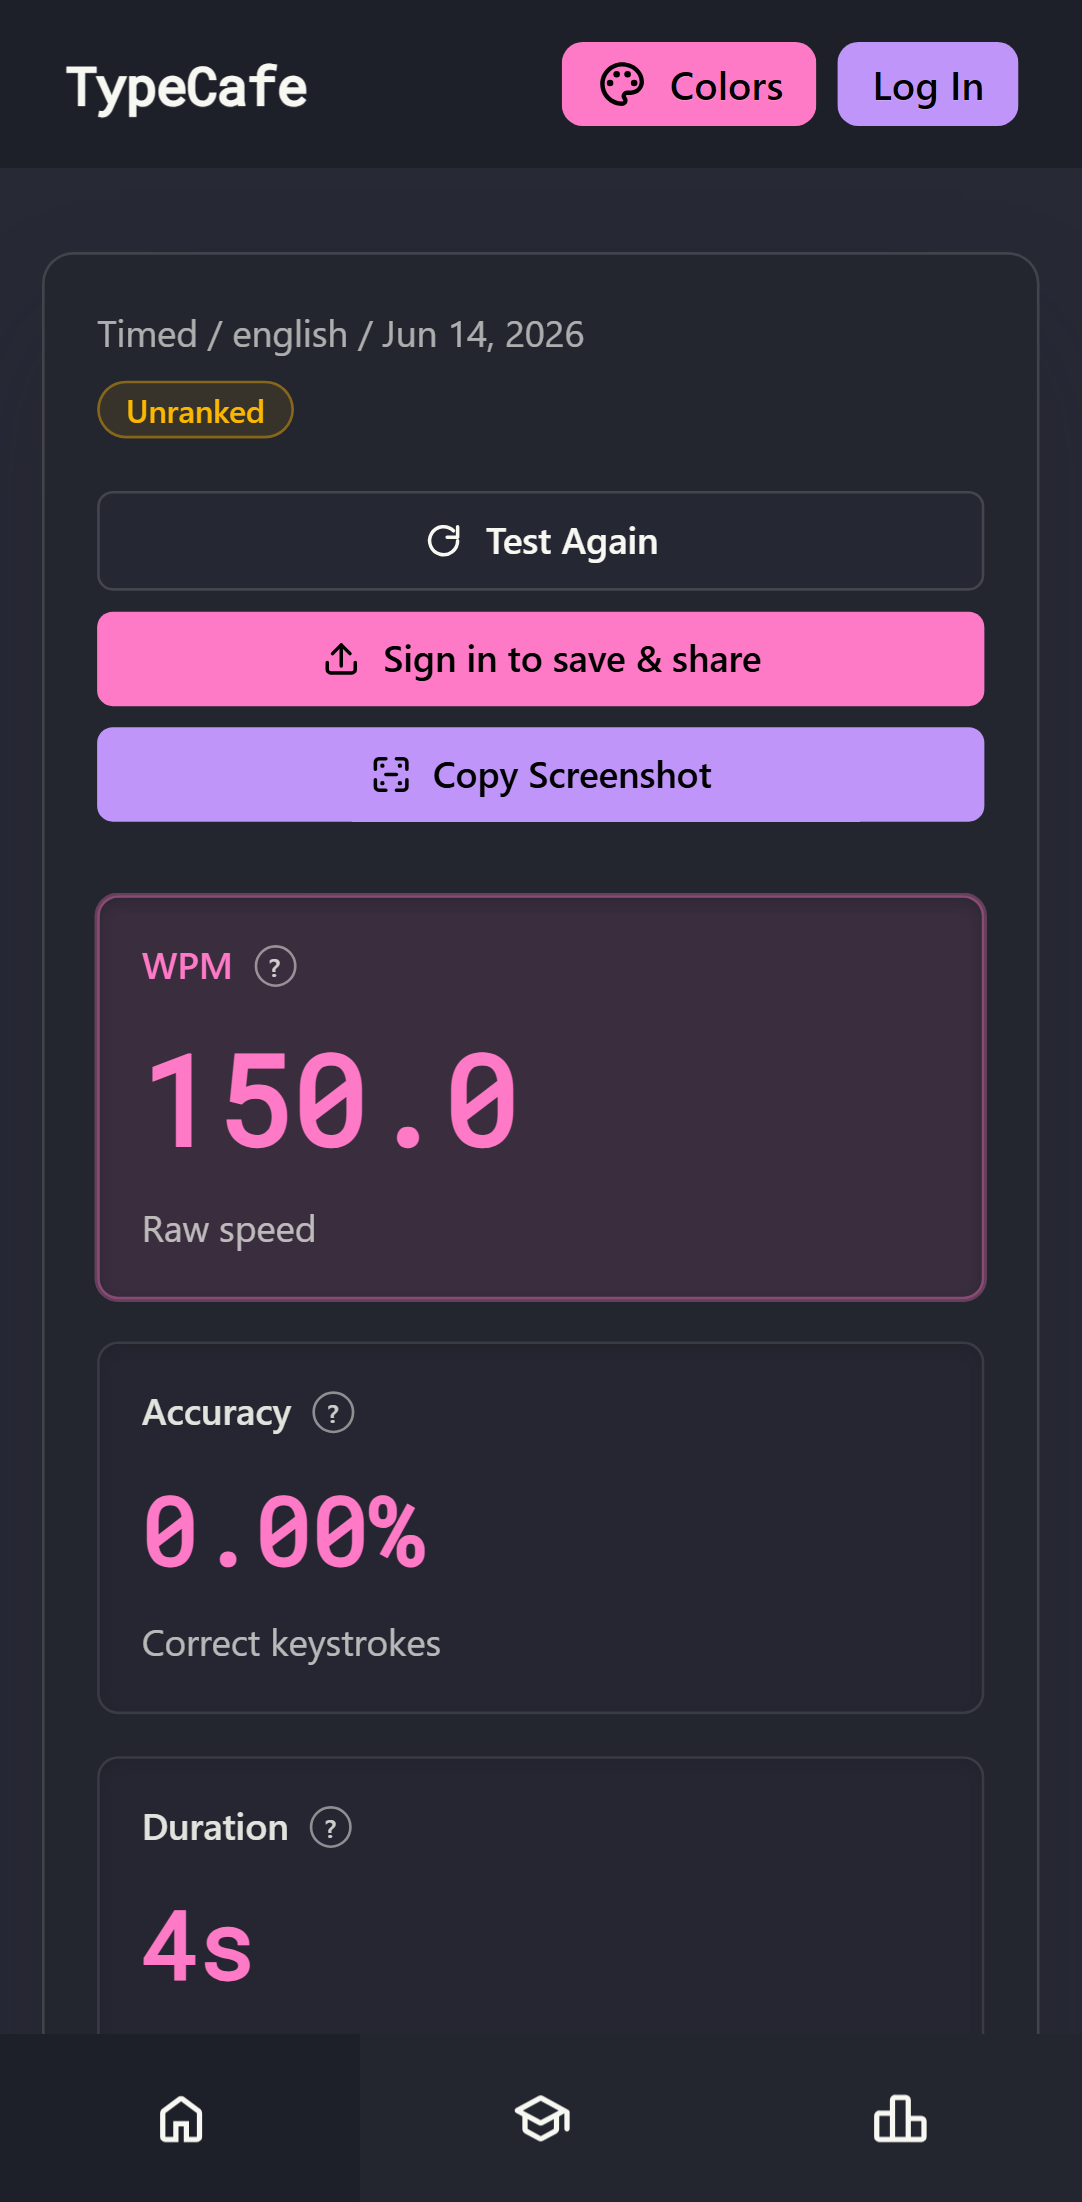
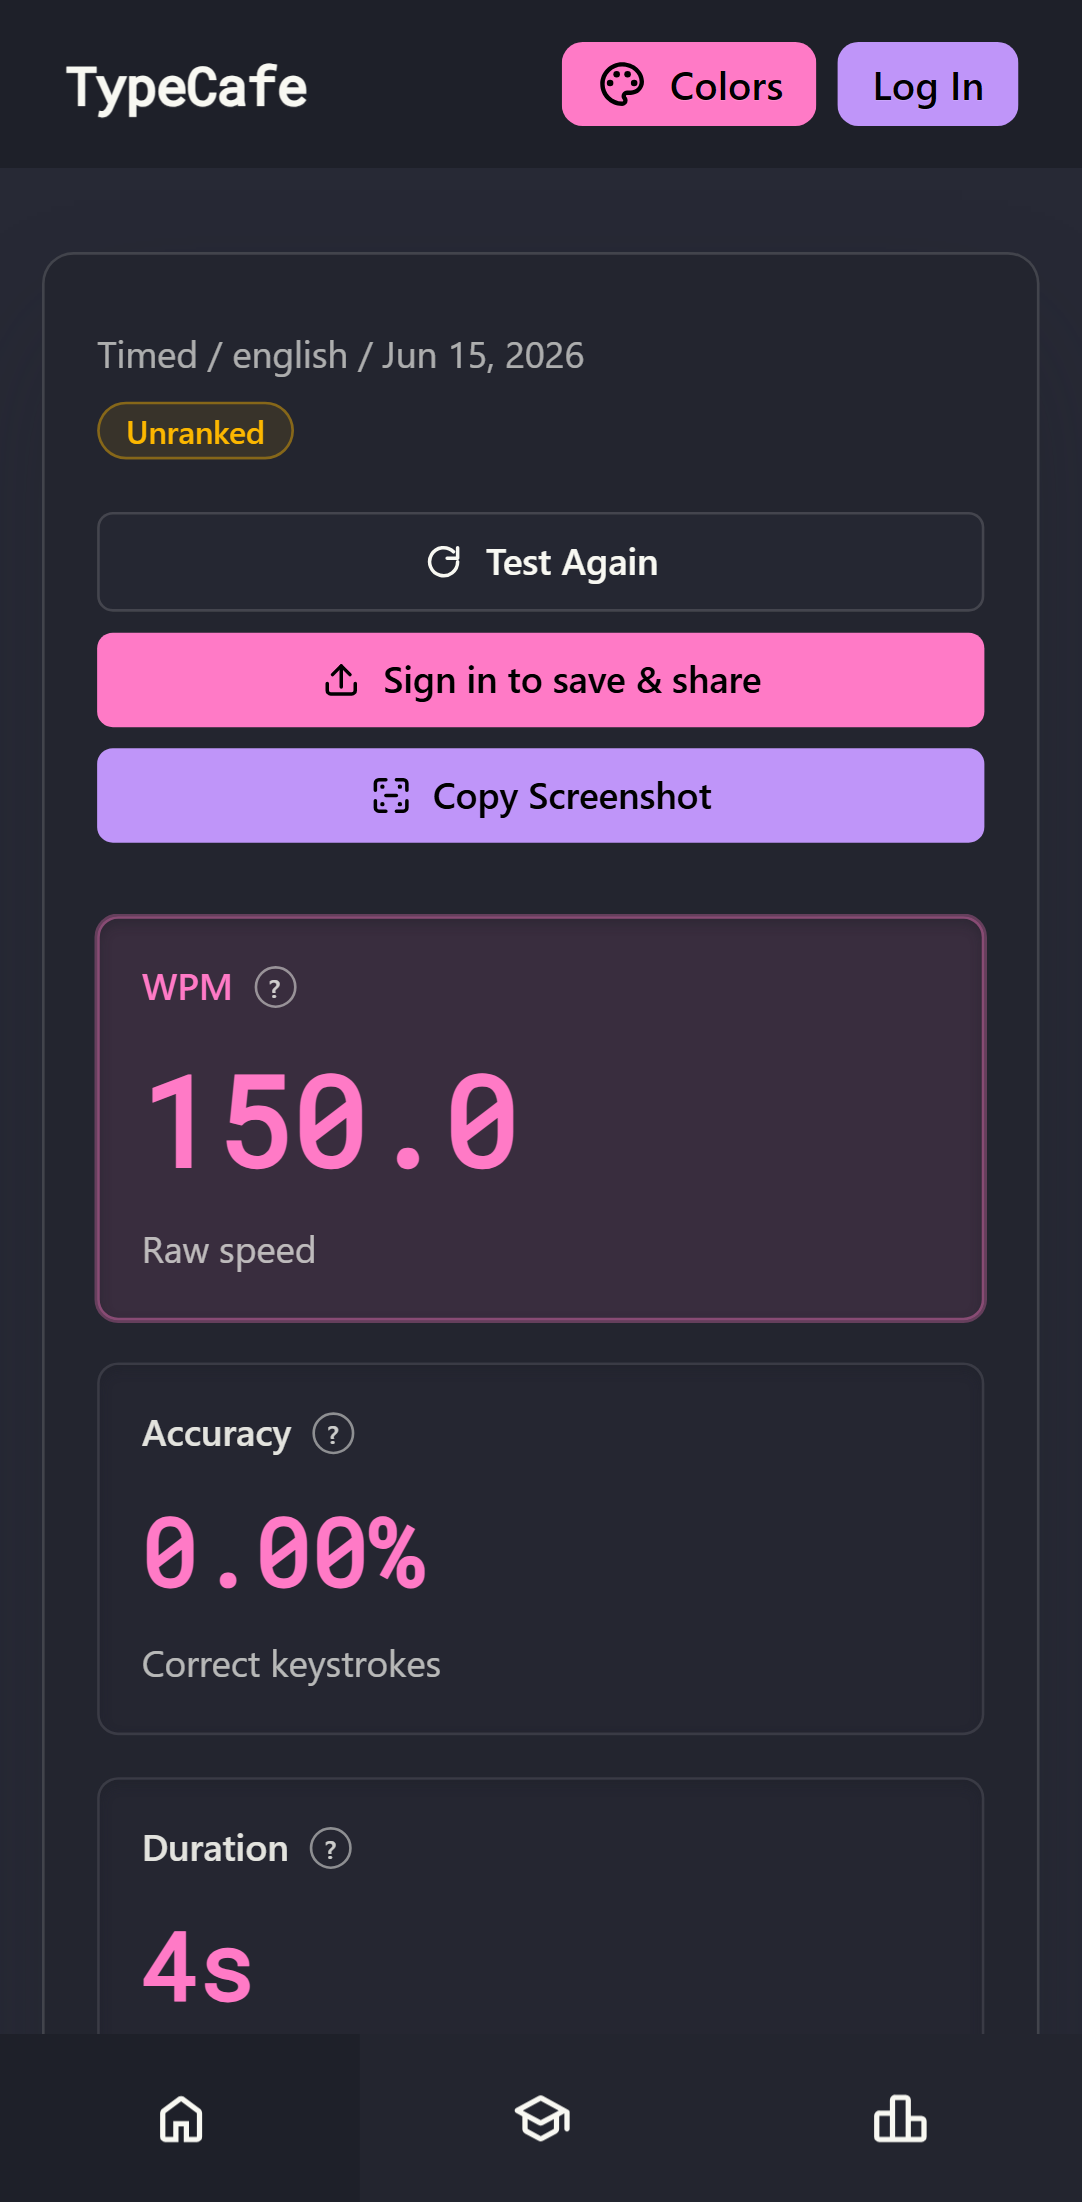
feat(coach): add error taxonomy to the score-card diagnosis (phase-4 §4.2)
Classifies *why* you miss, not just which keys, and prescribes one fix.

- src/lib/errorTaxonomy.ts (pure, 5 unit tests): classifyErrors -> the single
  dominant ErrorFinding (headline + detail + one drill button) or null below the
  30-keystroke/3-error floor. Thresholds in TAXONOMY_CONFIG.
- surfaced as a highlighted block atop the score-card DiagnosisPanel.

Scope: the three classes derivable from the persisted timeline — post-error
spiral, fatigue fade, doubled-letter. Adjacent-finger and transposition need the
typed wrong char (not stored in [expectedCode, correct, dt]); deferred until
keystroke capture records it. Recap integration deferred (no stored aggregates).

Verified: vitest 173; desktop+mobile e2e 227 passed (only the pre-existing
support-prompt specs red). Screenshot 35 updated.

diff --git a/src/lib/errorTaxonomy.ts b/src/lib/errorTaxonomy.ts
@@ -1,0 +1,119 @@
+// Error taxonomy (Phase 4 §4.2): classify *why* a user misses, from the
+// keystroke timeline we already persist, and prescribe one fix. Pure and
+// unit-tested. The diagnosis panel picks the single dominant class — never a
+// wall of findings.
+//
+// The persisted timeline (KeystrokeEvent) records the *expected* char, whether
+// it was hit, and the timing — but not the wrong char that was typed. So two of
+// the doc's classes (adjacent-finger, transposition) need typed-char capture
+// that doesn't exist yet and are intentionally out of scope here; the three
+// below are robust from correctness + position + the expected sequence.
+
+import type { KeystrokeEvent } from "./keystrokes"
+
+export const TAXONOMY_CONFIG = {
+    minKeystrokes: 30,
+    minErrors: 3,
+    // An error "spirals" when it lands within this many keystrokes of a prior one.
+    spiralWindow: 3,
+    spiralRatio: 0.5,
+    // Quartile accuracy drop that counts as fatigue.
+    fatigueDrop: 0.1,
+    minQuartile: 5,
+    // Share of errors landing on a doubled letter that counts as a pattern.
+    doubledShare: 0.3,
+    minDoubled: 2,
+} as const
+
+export type ErrorClass = "post-error-spiral" | "fatigue-fade" | "doubled-letter"
+
+export interface ErrorFinding {
+    class: ErrorClass
+    headline: string
+    detail: string
+    action: { label: string; href: string }
+}
+
+function correctRatio(events: KeystrokeEvent[]): number {
+    if (events.length === 0) return 1
+    return events.filter((e) => e.correct).length / events.length
+}
+
+function uniq(values: string[]): string[] {
+    return Array.from(new Set(values))
+}
+
+// The dominant error pattern, or null when there aren't enough errors to be
+// honest or no class clears its threshold (the score card still shows the
+// slow/least-accurate keys from diagnosis.ts in that case).
+export function classifyErrors(events: KeystrokeEvent[]): ErrorFinding | null {
+    const errorIndices = events.flatMap((e, i) => (e.correct ? [] : [i]))
+    if (events.length < TAXONOMY_CONFIG.minKeystrokes || errorIndices.length < TAXONOMY_CONFIG.minErrors) {
+        return null
+    }
+
+    // Post-error spiral: errors clustered right after other errors.
+    let spiral = 0
+    for (let i = 1; i < errorIndices.length; i++) {
+        if (errorIndices[i]! - errorIndices[i - 1]! <= TAXONOMY_CONFIG.spiralWindow) spiral++
+    }
+    const spiralRatio = spiral / errorIndices.length
+
+    // Fatigue fade: last-quartile accuracy well below the first.
+    const q = Math.floor(events.length / 4)
+    const fatigueDrop = q >= TAXONOMY_CONFIG.minQuartile
+        ? correctRatio(events.slice(0, q)) - correctRatio(events.slice(events.length - q))
+        : 0
+
+    // Doubled letter: errors on a char that repeats the one before it (ll, ss…).
+    const doubledKeys: string[] = []
+    for (let i = 1; i < events.length; i++) {
+        if (!events[i]!.correct && events[i]!.key === events[i - 1]!.key && /^[a-z]$/i.test(events[i]!.key)) {
+            doubledKeys.push(events[i]!.key.toLowerCase())
+        }
+    }
+    const doubledShare = doubledKeys.length / errorIndices.length
+
+    const candidates: { finding: ErrorFinding; score: number }[] = []
+
+    if (spiralRatio >= TAXONOMY_CONFIG.spiralRatio) {
+        candidates.push({
+            score: spiralRatio,
+            finding: {
+                class: "post-error-spiral",
+                headline: "Your mistakes come in clusters",
+                detail: `${Math.round(spiralRatio * 100)}% of your errors landed right after another — you're rushing to recover instead of resetting.`,
+                action: { label: "Drill slowing down", href: "/?mode=practice" },
+            },
+        })
+    }
+
+    if (fatigueDrop >= TAXONOMY_CONFIG.fatigueDrop) {
+        candidates.push({
+            score: fatigueDrop,
+            finding: {
+                class: "fatigue-fade",
+                headline: "Your accuracy fades as you go",
+                detail: `You were ${Math.round(fatigueDrop * 100)} points less accurate by the end than at the start — shorter, sharper sessions will hold quality.`,
+                action: { label: "Try a shorter test", href: "/" },
+            },
+        })
+    }
+
+    if (doubledKeys.length >= TAXONOMY_CONFIG.minDoubled && doubledShare >= TAXONOMY_CONFIG.doubledShare) {
+        const keys = uniq(doubledKeys)
+        candidates.push({
+            score: doubledShare,
+            finding: {
+                class: "doubled-letter",
+                headline: "Double letters trip you up",
+                detail: `Repeated letters (${keys.join(", ")}) cost you several misses — drill the doubles directly.`,
+                action: { label: `Drill ${keys.join(", ")}`, href: `/?mode=practice&keys=${keys.join(",")}` },
+            },
+        })
+    }
+
+    if (candidates.length === 0) return null
+    // Dominant = highest score; stable tie-break by the order pushed above.
+    return candidates.reduce((best, c) => (c.score > best.score ? c : best)).finding
+}

diff --git a/src/lib/errorTaxonomy.test.ts b/src/lib/errorTaxonomy.test.ts
@@ -1,0 +1,48 @@
+import { describe, expect, it } from "vitest"
+import { classifyErrors } from "./errorTaxonomy"
+import type { KeystrokeEvent } from "./keystrokes"
+
+const ALPHA = "abcdefghijklmnopqrstuvwxyz"
+
+// Non-repeating expected keys (so doubled-letter detection doesn't fire) with
+// the given wrong positions.
+function seq(length: number, wrong: number[], gapMs = 100): KeystrokeEvent[] {
+    const w = new Set(wrong)
+    return Array.from({ length }, (_, i) => ({ key: ALPHA[i % 26]!, correct: !w.has(i), t: i * gapMs }))
+}
+
+function fromKeys(keys: string, wrong: number[], gapMs = 100): KeystrokeEvent[] {
+    const w = new Set(wrong)
+    return keys.split("").map((key, i) => ({ key, correct: !w.has(i), t: i * gapMs }))
+}
+
+describe("classifyErrors", () => {
+    it("returns null below the keystroke/error floor", () => {
+        expect(classifyErrors(seq(10, [1, 2]))).toBeNull()
+        expect(classifyErrors(seq(40, [1]))).toBeNull()
+    })
+
+    it("flags a post-error spiral when errors cluster", () => {
+        const finding = classifyErrors(seq(40, [10, 11, 13, 15]))
+        expect(finding?.class).toBe("post-error-spiral")
+        expect(finding?.action.href).toContain("mode=practice")
+    })
+
+    it("flags fatigue fade when the last quartile is much worse", () => {
+        // Errors only in the final quartile, spread out so they don't spiral.
+        const finding = classifyErrors(seq(40, [31, 35, 39]))
+        expect(finding?.class).toBe("fatigue-fade")
+    })
+
+    it("flags doubled-letter errors and names the keys", () => {
+        // Doubled pairs with the second of each early pair wrong.
+        const finding = classifyErrors(fromKeys("aabbccddee".repeat(4), [1, 3, 5, 7, 9]))
+        expect(finding?.class).toBe("doubled-letter")
+        expect(finding?.action.href).toMatch(/keys=/)
+    })
+
+    it("returns null when errors are scattered with no dominant pattern", () => {
+        const finding = classifyErrors(seq(40, [4, 12, 24, 34]))
+        expect(finding).toBeNull()
+    })
+})

diff --git a/src/components/scores/ShareableScoreCard.tsx b/src/components/scores/ShareableScoreCard.tsx
@@ -8,6 +8,7 @@ import type { KeyAccuracy, TypedSegment, WpmSample as ScoreWpmSample } from "~/l
 import { decodeTimeline } from "~/lib/keystrokes";
 import type { EncodedKeystroke } from "~/lib/keystrokes";
 import { diagnose, toDrillKeys } from "~/lib/diagnosis";
+import { classifyErrors } from "~/lib/errorTaxonomy";
 import { attemptsFromEvents } from "~/lib/heatmap";
 import { KeyHeatmap } from "~/components/heatmap/KeyHeatmap";
 
@@ -449,11 +450,12 @@ function ReMeasureStrip(props: { beforeWpm: number; afterWpm: number }) {
 // exactly those keys pre-selected. Owner-only: rendered on the live results card,
 // never on a read-only shared score (which carries no timeline anyway).
 function DiagnosisPanel(props: { score: ShareableScore }) {
-  const { diagnosis, attempts } = useMemo(() => {
+  const { diagnosis, attempts, taxonomy } = useMemo(() => {
     const events = props.score.timeline ? decodeTimeline(props.score.timeline) : [];
     return {
       diagnosis: diagnose({ events, worstKeys: props.score.worstKeys }),
       attempts: attemptsFromEvents(events),
+      taxonomy: classifyErrors(events),
     };
   }, [props.score.timeline, props.score.worstKeys]);
 
@@ -473,6 +475,18 @@ function DiagnosisPanel(props: { score: ShareableScore }) {
         <p className="text-base-content/75">Too short to diagnose — try a 30s+ test.</p>
         :
         <>
+        {taxonomy &&
+          <div data-testid="taxonomy-finding" className="mb-4 rounded-md border border-primary/30 bg-primary/10 p-4">
+            <p className="font-semibold text-base-content">{taxonomy.headline}</p>
+            <p className="mt-1 text-sm text-base-content/70">{taxonomy.detail}</p>
+            <Link
+              href={taxonomy.action.href}
+              className="mt-3 inline-flex shrink-0 cursor-pointer items-center justify-center rounded-md bg-primary px-4 py-2 text-sm font-semibold text-primary-content transition hover:opacity-85 focus-visible:outline focus-visible:outline-2 focus-visible:outline-offset-2 focus-visible:outline-primary"
+            >
+              {taxonomy.action.label}
+            </Link>
+          </div>
+        }
         {diagnosis.findings.length === 0 ?
         <p className="text-base-content/75">No clear weak spots this test — a clean, even run. Keep the pace up.</p>
         :

diff --git a/tests/e2e/screenshots.spec.ts b/tests/e2e/screenshots.spec.ts
@@ -272,6 +272,8 @@ test.describe("screenshot tour", () => {
     await expect(page.getByText("Diagnosis", { exact: true })).toBeVisible();
     // The mini per-key heatmap renders alongside the findings (Phase 1.5).
     await expect(page.getByTestId("diagnosis-heatmap")).toBeVisible();
+    // 50 errors in a row → the error-taxonomy finding names the pattern (§4.2).
+    await expect(page.getByTestId("taxonomy-finding")).toBeVisible();
     await capture(page, testInfo, "35-score-card-diagnosis");
 
     // The one-click drill hands off into Practice with the diagnosed keys selected.

diff --git a/docs/phases/phase-4-coach.md b/docs/phases/phase-4-coach.md
@@ -41,6 +41,8 @@ Classify every error in the timeline (`src/lib/errorTaxonomy.ts`, pure, unit-tes
 
 Each class maps to one coaching sentence and one drill button. Diagnosis panel and recap pick the *dominant* class — never a wall of findings.
 
+**Progress:** 2026-06-15 — `src/lib/errorTaxonomy.ts` (pure, 5 unit tests per class). `classifyErrors(events)` returns the single dominant `ErrorFinding` (headline + detail + one action button) or null below the 30-keystroke/3-error floor. Surfaced as a highlighted block atop the score-card `DiagnosisPanel`. Thresholds in `TAXONOMY_CONFIG`. **Scope:** only the three classes derivable from the persisted timeline ship — **post-error spiral** (errors clustering within 3 keystrokes), **fatigue fade** (last-quartile accuracy drop), **doubled-letter** (errors on a repeated expected char). Adjacent-finger and transposition need the *typed* wrong char, which the timeline (`[expectedCode, correct, dt]`) doesn't store — out of scope until keystroke capture records it (a small encoding change; pairs naturally with §4.1's derived-on-write pass). Recap integration deferred (no stored per-class aggregates yet).
+
 ## 4.3 Speed-vs-accuracy stance (S)
 
 One computed stance from recent history, shown on `/progress` and in recaps:
@@ -79,7 +81,8 @@ When budget exists: a "Why am I stuck?" button sends the *aggregated stats only*
 ## Acceptance
 
 - [ ] A 70-WPM user with 2 weeks of data gets: their 3 slowest transitions, their dominant error class, a stance, and a 30-day plan — each with a working drill button
-- [ ] Error taxonomy unit-tested against constructed timelines per class
+- [~] Error taxonomy unit-tested against constructed timelines per class
+  - 2026-06-15: the three timeline-derivable classes (post-error spiral, fatigue fade, doubled-letter) are unit-tested per class and surfaced on the score card. Adjacent-finger + transposition await typed-char capture.
 - [ ] Plateau state reproducible with synthetic flat data; plan visibly changes in response
 - [ ] All thresholds documented on `/how-we-measure`
 - [ ] Screenshot tour: plan view (calibration + targeted), plateau headline, stance display, transition findings